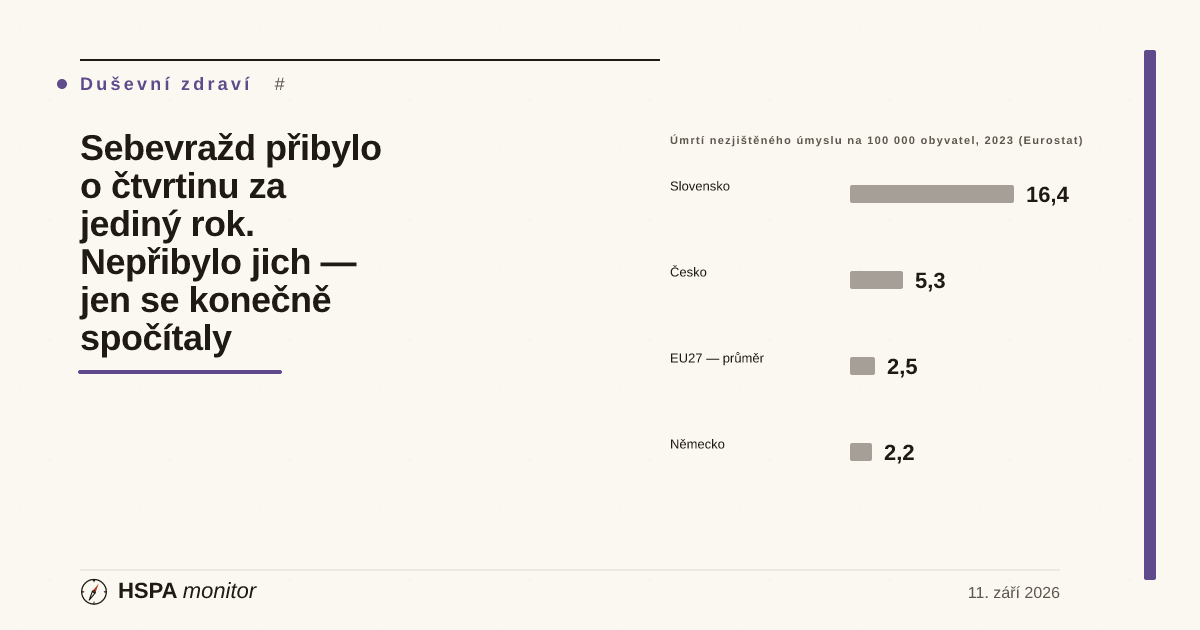
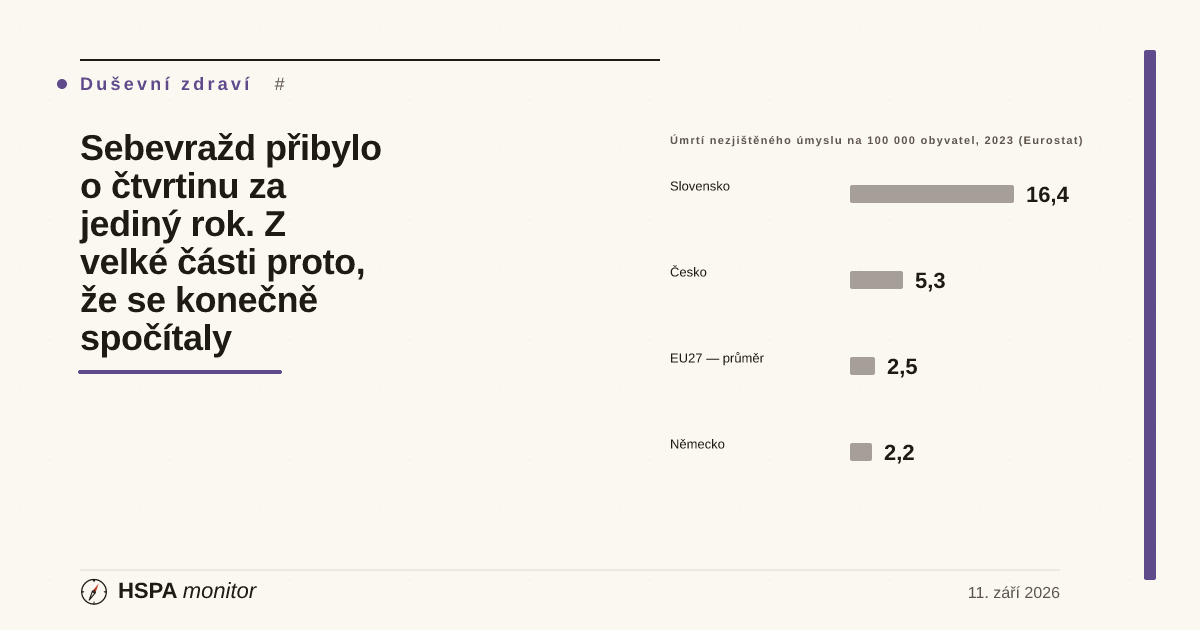
fix(clanky): opravy po recenzi Codexu — titulek a předpověď o roce 2025 (#1193)
Dva nálezy P2 přijaty:

1. Titulek "Nepřibylo jich — jen se konečně spočítaly" vylučoval jakýkoli
   skutečný nárůst, zatímco vlastní caveat článku říká, že studie reálnou
   složku z 308 případů nerozpadá a že nula se netvrdí. Přepsáno na
   formulaci ČSÚ "z velké části" ve všech třech kopiích i v articles.json;
   deck upřesněn na parafrázi ÚZIS. Cover přegenerován.

2. Věta o roce 2025 předjímala neexistující data a odporovala citátu ÚZIS
   bezprostředně nad ní — ten říká, že intenzitu sebevražednosti půjde
   hodnotit právě až na letech zvalidovaných shodným způsobem. Nahrazeno.

Nález P1 (commitnout data/diagnoza-index.json) odmítnut: CLAUDE.md commit
generovaných artefaktů v obsahovém PR zakazuje kvůli server-side merge
konfliktům a regeneraci zajišťuje regenerate-artifacts.yml, které se na
změnu articles.json i clanek-*.html spouští, pustí drift testy včetně
diagnoza-index.test.js a výsledek commitne. Zdůvodnění je v hlavičce článku.

npm run validate:all OK · 1309 testů, 0 failures.

Claude-Session: https://claude.ai/code/session_01WkTPFLWJLTAEKpg1t1XoiQ

Changed region(s): [[0.0617, 0.3317, 0.3083, 0.5127]]

diff --git a/05_M1_Starter/clanek-sebevrazdy-validace-policejni-data.html b/05_M1_Starter/clanek-sebevrazdy-validace-policejni-data.html
@@ -3,11 +3,11 @@
 <head>
 <meta charset="UTF-8">
 <meta name="viewport" content="width=device-width, initial-scale=1.0">
-<title>Sebevražd přibylo o čtvrtinu za jediný rok. Nepřibylo jich — jen se konečně spočítaly · HSPA Monitor</title>
+<title>Sebevražd přibylo o čtvrtinu za jediný rok. Z velké části proto, že se konečně spočítaly · HSPA Monitor</title>
 <meta name="description" content="ÚZIS propojil Listy o prohlídce zemřelého s evidencí Policejního prezidia a u 294 úmrtí opravil příčinu smrti. Počet sebevražd za rok 2024 vyskočil na 1 561 z 1 253. Kategorie „oběšení nezjištěného úmyslu“ přitom spadla z 51 na 13.">
 <meta name="robots" content="noindex, follow">
 <meta property="og:type" content="article">
-<meta property="og:title" content="Sebevražd přibylo o čtvrtinu za jediný rok. Nepřibylo jich — jen se konečně spočítaly">
+<meta property="og:title" content="Sebevražd přibylo o čtvrtinu za jediný rok. Z velké části proto, že se konečně spočítaly">
 <meta property="og:description" content="Lékař vyplňující List o prohlídce zemřelého nemá výsledky policejního šetření. ÚZIS obě evidence poprvé propojil: 294 oprav, +308 sebevražd — a kategorie „oběšení nezjištěného úmyslu“ spadla z 51 případů na 13.">
 <meta property="og:locale" content="cs_CZ">
 <meta property="article:published_time" content="2026-09-11">
@@ -22,6 +22,7 @@
     primary_sources_count: 9
     visual_elements_count: 8
     audit_pass: "2026-09-11 nezávislý průchod (fáze 5). Všech 9 externích odkazů vrací živý obsah (7x HTTP 200, 4 odkazy na PubMed vrací 203 přes proxy s korektním obsahem). Každé číselné tvrzení dohledáno zpět k primárnímu zdroji: tabulka 1, 2, 3 a 4 analytické studie ÚZIS položka po položce, kontrolní součet tab. 3 přepočítán (294), řetězec 1131+93+323=1547 ověřen, hodnoty z Eurostatu přepočítány z uloženého JSON, hodnoty z abstraktů ověřeny proti metadatům z PubMed. OPRAVENO 8 nálezů: (1) Deck tvrdil, ze dve evidence spolu nemluvily 'ctvrt stoleti' a rozchazely se o '150 az 330' pripadu rocne — obojí neslo o doložený údaj: tab. 1 pokrývá roky 2010-2023 a skutečné rozpětí rozdílu je 137 (2012) až 329 (2010). Přeformulováno na 'nejméně od roku 2010' a '137 až 329'. (2) Deck tvrdil, že 'nikdo si v roce 2024 nesáhl na život častěji než v roce 2023' — to je silnější tvrzení, než jaké unesou zdroje (ÚZIS mluví o změnách v datech, ČSÚ o nárůstu způsobeném validací 'z velké části'). Nahrazeno atribuovanou formulací. (3) Tvrzení, že kategorie Y20 'nikdy neměla mít 51 položek' a že 'člověk se nepověsí nedopatřením', bylo normativní a věcně sporné (náhodné uškrcení či zadušení existuje) — nahrazeno doloženými čísly (59 překlasifikovaných, řada 73/51/13). Totéž opraveno v og:description. (4) Věta, že vysoký nezjištěný úmysl na Střední Moravě 'sám převáží celý rozdíl', implicitně sčítala míru X60-X84 s mírou Y10-Y34, což si článek sám zakazuje — odstraněno a nahrazeno konstatováním, že krajský rozpad oprav ÚZIS nezveřejnil. (5) Kvantifikátor 'měřilo z velké části rozdíly v praxi soudního lékařství' nemá oporu — přepsáno bez kvantifikátoru. (6) V sekci Co s tím figuroval údaj 'kraj, kterému se 40 % sebevražd schovalo v kolonce nerozhodnuto' — číslo, které v žádném zdroji není a z dat se odvodit nedá. Odstraněno. (7) Tvrzení, že na stejné rozlišovací potíže naráží i měření léčitelné mortality, nebylo doloženo — přeformulováno na obecný požadavek spolehlivosti čísla. (8) Charakteristika slovenské sebevražednosti jako 'nejnižší v regionu' nebyla ověřena proti všem sousedům — nahrazena přímým srovnáním s unijním průměrem. Dále opraveno: primary_sources_count 7->9, visual_elements_count 6->8, doba čtení 11->10 minut (2 516 slov těla, konvence korpusu ~270 slov/min), a dvě položky databoxu, které přisuzovaly datům rozpad (věkový a metodický), jaký ÚZIS nezveřejnil."
+    codex_2026-09-11: "Recenze Codexu k PR #1193, tři nálezy (1x P1, 2x P2). DVA PŘIJATY, JEDEN ODMÍTNUT s doloženým důvodem. (P2, titulek) PŘIJATO: titulek 'Nepřibylo jich — jen se konečně spočítaly' vylučoval jakýkoli skutečný nárůst, zatímco vlastní caveat článku říká, že studie reálnou složku z 308 případů nerozpadá a že nula se netvrdí. Titulek přepsán na 'Z velké části proto, že se konečně spočítaly' (formulace ČSÚ) ve všech třech kopiích (title, article-title a og:title) a v data/articles.json; deck upřesněn na parafrázi ÚZIS plus doslovné 'z velké části' od ČSÚ. (P2, rok 2025) PŘIJATO: věta 'až se za rok 2025 počet sebevražd oproti roku 2024 nezvýší, nepůjde o úspěch prevence, ale o normalizaci měření' předjímala neexistující data a odporovala citátu ÚZIS bezprostředně nad ní — ten říká, že intenzitu půjde hodnotit právě až na letech zvalidovaných shodným způsobem. Nahrazeno konstatováním, že první vypovídající srovnání bude teprve 2024 vs 2025, a to jen při zopakování validace. (P1, diagnoza-index.json) ODMÍTNUTO: Codex žádá spustit npm run build:diagnoza a commitnout artefakt. To by porušilo výslovné pravidlo v CLAUDE.md — čtyři generované artefakty (search-index.json, diagnoza-index.json, souvislosti.json, styles.min.css) se v obsahovém PR NEcommitují, protože GitHub neumí merge drivery a server-side merge na nich hlásí konflikt a blokuje tlačítko. Premisa nálezu ('unless a later rebuild happens') je navíc ověřitelně splněna: .github/workflows/regenerate-artifacts.yml se spouští při pushi do main na cestách 05_M1_Starter/data/articles.json a 05_M1_Starter/clanek-*.html (obojí tenhle PR mění), pustí build:generated, ověří drift testy VČETNĚ tests/diagnoza-index.test.js a výsledek commitne bot. Odkazy tedy po merge chybět nebudou. Že test nad holým checkoutem PR selže, je zamýšlený stav — deploy-check.yml i visual-a11y.yml pouštějí build:generated v runneru před testy, což je důvod, proč je CI tohohle PR zelené."
     notes: "Vytvořeno 11. 9. 2026 z discovery findings: news release WHO Europe z 10. 9. 2026 (Hidden in the numbers — data linkage a prevence sebevražd v Česku) posloužil jako SPOUŠTĚČ, nikoli jako zdroj. Centrální KPI: 1 561 zemřelých úmyslným sebepoškozením v ČR v roce 2024, +308 (+24,6 %) proti 1 253 v roce 2023 — ČSÚ, TZ kód 134003-25, 22. 9. 2025. Mechanismus a všechna dílčí čísla: ÚZIS, Validace počtu sebevražd v ČR v roce 2024 (analytická studie), NZIP dataset 2478, akt. 22. 9. 2025, staženo 11. 9. 2026 — 1 547 záznamů PP, 1 131 napojených shodně, 323 s odlišnou příčinou, 294 oprav (kontrolní součet tab. 3 přepočítán: 59+40+34+30+26+22+21+18+18+10+10+6=294), 137 opačným směrem z toho 8 opraveno ze sebevraždy na nehodu. Mezinárodní a regionální srovnání: Eurostat hlth_cd_asdr2, unit RT, sex T, age TOTAL, kódy X60-X84_Y870 a Y10-Y34_Y872, rok 2023, staženo přes disseminační API 11. 9. 2026 (ČR 11,59 / 5,29; EU27 10,37 / 2,45; SK 6,52 / 16,36; IT 5,78 / 0,01). Regionální zrcadlo doloženo DVĚMA nezávislými zdroji — ÚZIS tab. 2 (2018-2022) a Eurostat NUTS2 (2023). Evidence ověřena v PubMed 11. 9. 2026 včetně typu publikace: Auger 2015 (PMID 26157108), Snowdon 2021 (PMID 32918553), Tøllefsen 2015 (PMID 26608638, Validation Study), Schmeckenbecher 2024 (PMID 39044107). Consensus použit jako vyhledávač — potvrdil, že evidence NENÍ jednosměrná; oba protinálezy jsou v článku uvedeny. Datový rámec: discovery/data-frame-sebevrazdy-validace-policejni-data.md."
     limits: "SEBEOMEZENÍ, která nesmí zmizet při revizi: (1) Článek NETVRDÍ, kolik z nárůstu o 308 je skutečný pohyb sebevražednosti — studie ÚZIS ani ČSÚ to nerozpadají, ČSÚ říká jen 'z velké části'. Nula se rovněž netvrdí. (2) NEPŘEPOČÍTÁVÁ se česká míra sebevražednosti na rok 2024 ani se neodhaduje 'správný' počet sebevražd za dřívější roky; rozdíl PP vs ČSÚ z tab. 1 je uveden jako rozdíl dvou evidencí, ne jako počet chybějících sebevražd (PP vede i případy, které ČSÚ sebevraždou neuznal — 8 takových v roce 2024). (3) NESČÍTÁ se míra X60-X84 s mírou Y10-Y34 do žádného 'opraveného' mezinárodního žebříčku — Eurostat takový ukazatel nepublikuje. (4) NIC o motivech lékařů ani policie; studie popisuje informační deficit, ne úmysl. (5) ŽÁDNÉ tvrzení o roce 2025 — vlna ČSÚ nevyšla. (6) Číslo 1 249 z WHO releasu se nepoužívá vůbec; primární zdroje dávají 1 250 (X60-X84) nebo 1 253 (včetně Y87.0). (7) Netvrdí se, že vnější příčiny jako celek jen přelily jednu kategorii do druhé — jejich součet 2023->2024 vzrostl (5 334 -> 5 487). (8) Obecné tvrzení 'sebevraždy se všude podhodnocují' se NEVYSLOVUJE; literatura je rozporná a protinálezy jsou citovány."
 -->
@@ -57,9 +58,9 @@
         <span class="article-tag">Duševní zdraví</span>
         <span class="article-tag article-tag-muted">sebevraždy · kvalita dat · List o prohlídce zemřelého · ÚZIS · mezinárodní srovnání</span>
       </div>
-      <h1 class="article-title">Sebevražd přibylo o čtvrtinu za jediný rok. Nepřibylo jich — jen se konečně spočítaly</h1>
+      <h1 class="article-title">Sebevražd přibylo o čtvrtinu za jediný rok. Z velké části proto, že se konečně spočítaly</h1>
       <p class="article-deck">
-        Lékař, který vyplňuje List o prohlídce zemřelého, nemá k dispozici výsledky policejního šetření. Policie zase svoje zjištění nikam do zdravotnické statistiky neposílá. Dvě evidence téhož úmrtí spolu nemluvily a nejméně od roku 2010 se rozcházely o <strong>137 až 329 případů ročně</strong>. Za rok 2024 je ÚZIS poprvé propojil a u <strong>294 úmrtí</strong> opravil příčinu smrti. Statistika sebevražd vyskočila z <strong>1 253 na 1 561</strong>. Kategorie „oběšení nezjištěného úmyslu“ zároveň spadla z 51 případů na <strong>13</strong>. Podle ÚZIS to není nárůst sebevražednosti — je to důsledek provedené validace.
+        Lékař, který vyplňuje List o prohlídce zemřelého, nemá k dispozici výsledky policejního šetření. Policie zase svoje zjištění nikam do zdravotnické statistiky neposílá. Dvě evidence téhož úmrtí spolu nemluvily a nejméně od roku 2010 se rozcházely o <strong>137 až 329 případů ročně</strong>. Za rok 2024 je ÚZIS poprvé propojil a u <strong>294 úmrtí</strong> opravil příčinu smrti. Statistika sebevražd vyskočila z <strong>1 253 na 1 561</strong>. Kategorie „oběšení nezjištěného úmyslu“ zároveň spadla z 51 případů na <strong>13</strong>. Podle ÚZIS jsou ty změny důsledkem provedené validace, ne nárůstu intenzity sebevražednosti; ČSÚ mluví o nárůstu způsobeném validací „z velké části“.
       </p>
       <div class="article-meta">
         <span class="article-meta-date">11. září 2026</span>
@@ -320,7 +321,7 @@
         Výsledek validace je dobrá zpráva o statistice a špatná zpráva o všem, co se na ní dosud stavělo. Ze studie i z dat plynou tři konkrétní věci.
       </p>
       <p>
-        <strong>Zaprvé: rok 2024 není zlom, je to nový začátek řady.</strong> ÚZIS to říká výslovně — „<em>Výše popsané změny však jsou důsledkem provedené validace, nikoliv nárůstem v intenzitě sebevražednosti jako takové. Ty bude možné hodnotit až v nadcházejících letech, kdy budou data zvalidována shodným či podobným způsobem.</em>“ Každá věta typu „sebevražd meziročně přibylo o čtvrtinu“ je bez tohoto dovětku zavádějící, i když je aritmeticky správná. A platí to i obráceně: až se za rok 2025 počet sebevražd oproti roku 2024 nezvýší, nepůjde o úspěch prevence, ale o normalizaci měření.
+        <strong>Zaprvé: rok 2024 není zlom, je to nový začátek řady.</strong> ÚZIS to říká výslovně — „<em>Výše popsané změny však jsou důsledkem provedené validace, nikoliv nárůstem v intenzitě sebevražednosti jako takové. Ty bude možné hodnotit až v nadcházejících letech, kdy budou data zvalidována shodným či podobným způsobem.</em>“ Každá věta typu „sebevražd meziročně přibylo o čtvrtinu“ je bez tohoto dovětku zavádějící, i když je aritmeticky správná. A platí to i obráceně: první meziroční srovnání, ze kterého půjde o sebevražednosti něco vyčíst, bude teprve srovnání let 2024 a 2025 — a jen tehdy, pokud se validace zopakuje stejným způsobem. Rok 2024 zatím nemá s čím být poměřován.
       </p>
       <p>
         <strong>Zadruhé: validace musí být pravidlo, ne projekt.</strong> Jednorázové propojení opraví jeden rok a nechá čtrnáct předchozích tak, jak jsou. Řada 2010–2023 zůstává v podobě, o níž víme, že je podhodnocená — ale nevíme o kolik, protože rozdíl proti evidenci policie není totéž co počet chybějících sebevražd. Sama validace ukázala i opačné případy: osm úmrtí bylo ze sebevražd naopak vyřazeno a u 137 dalších policie sebevraždu nevedla. Zpětný přepočet by tedy vyžadoval stejnou práci, jaká proběhla za rok 2024, pro každý rok zvlášť.
